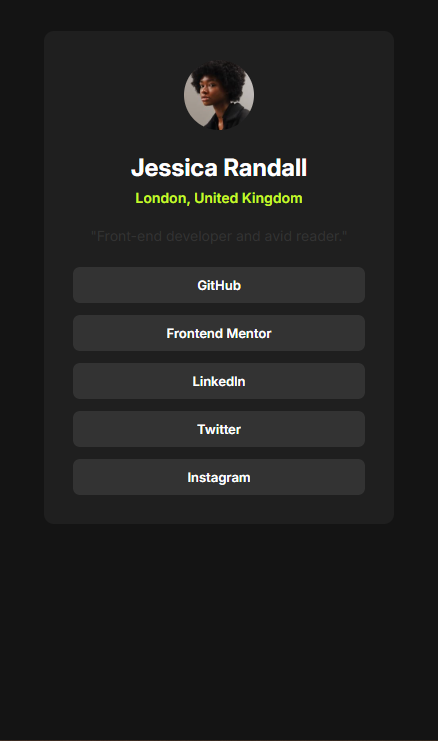
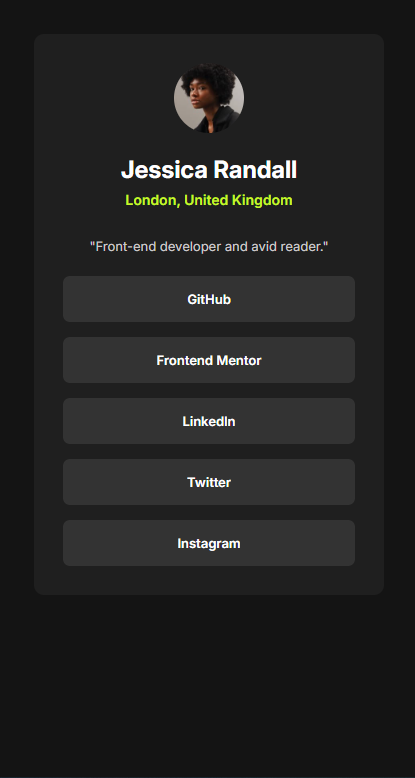
style fixing

diff --git a/social-links-profile/style.css b/social-links-profile/style.css
@@ -31,7 +31,7 @@ body {
   display: flex;
   flex-direction: column;
   align-items: center;
-  gap: 21px;
+  gap: 20px;
 }
 
 .card .profile-img {
@@ -65,11 +65,12 @@ body {
 }
 
 .card .bio {
-  font-size: 14px;
+  font-size: 13px;
   font-weight: 400;
-  line-height: 140%;
+  line-height: 150%;
   text-align: center;
-  color: var(--grey-700);
+  color: hsl(0, 1%, 80%);
+  margin-top: 10px;
 }
 
 .card .social-links {
@@ -77,7 +78,7 @@ body {
   display: flex;
   flex-direction: column;
   align-items: center;
-  gap: 12px;
+  gap: 15px;
 }
 
 .card .social-links .social-link {
@@ -89,5 +90,5 @@ body {
   font-size: 13px;
   font-weight: 600;
   border-radius: 7px;
-  padding: 10px 0px;
+  padding: 15px 0px;
 }
